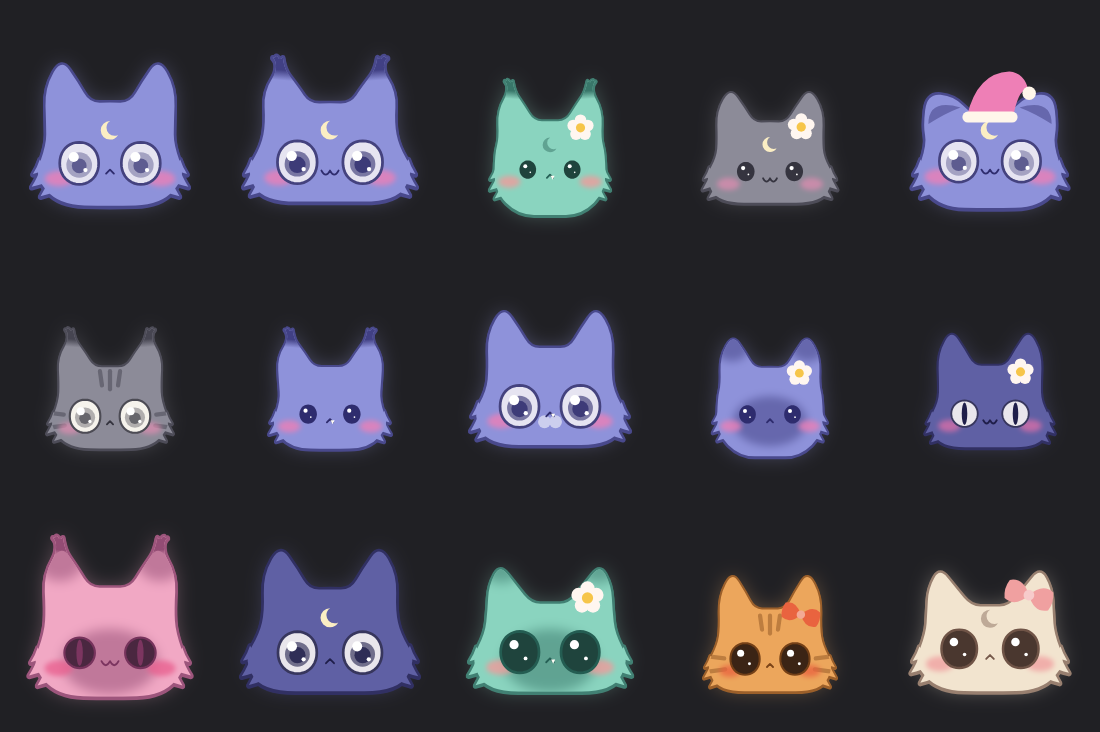
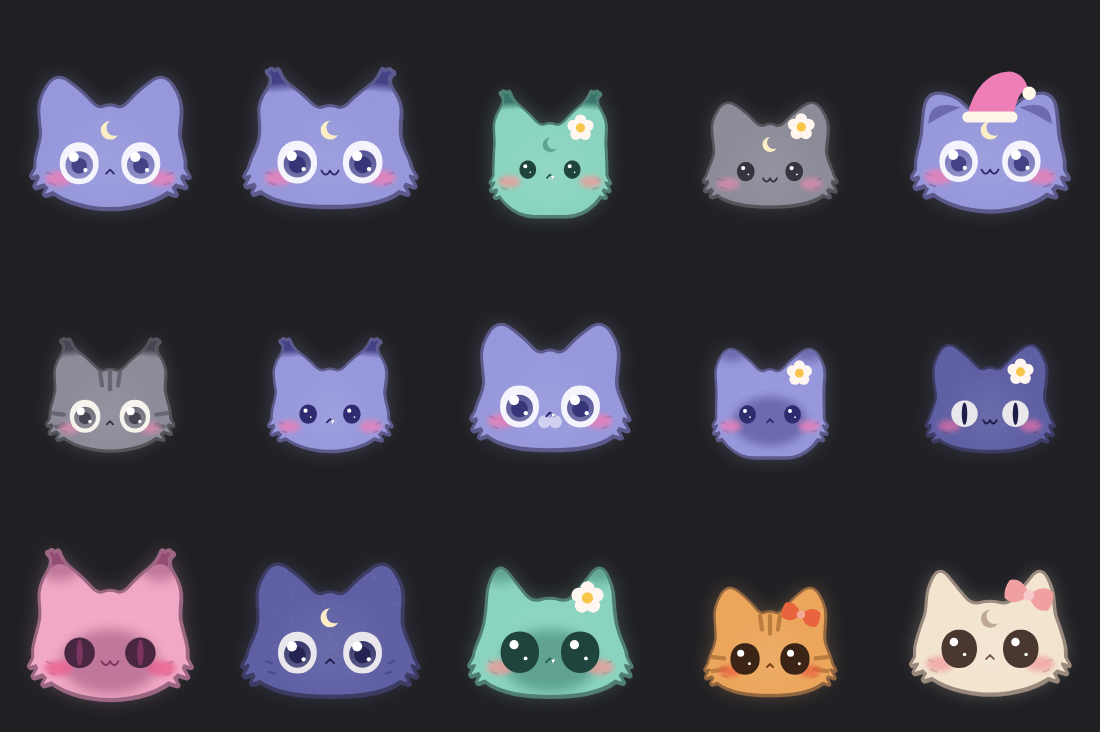
feat(cat): the bib grows from the chin, plumes rise
After the tenth review (very similar: reached): the bib's lobes rise
over the jaw and fade into the fur there, with tufts sticking out past
its sides, so it merges with the chin rather than sitting under it like
a collar; plumes bulge on the outside and rise instead of reaching
sideways; faces get a very soft glow in the middle. Lab previews and the
brand art are redrawn from the current cat.

Claude-Session: https://claude.ai/code/session_01DLiuU5ewj45KzsWwskHJGa

diff --git a/lib/design/cat/figure.dart b/lib/design/cat/figure.dart
@@ -1179,7 +1179,7 @@ extension on CatPainter {
     final width = [
       for (var i = 0; i <= n; i++)
         (bushy
-                ? (.26 + .5 * math.sin(math.pi * math.pow(i / n, 1.94))) *
+                ? (.26 + .56 * math.sin(math.pi * math.pow(i / n, 1.7))) *
                       (1 - .78 * _ease(((i / n) - .55) / .45))
                 : _along(const [.3, .5, .64, .62, .46], i / n)) *
             puff,
@@ -1191,12 +1191,15 @@ extension on CatPainter {
       for (final o in p.tail)
         kind == CatTail.bushy
             ? p.tail[0] +
-                  Offset(o.dx - p.tail[0].dx, (o.dy - p.tail[0].dy) * 1.18)
+                  Offset(
+                    (o.dx - p.tail[0].dx) * .92,
+                    (o.dy - p.tail[0].dy) * 1.28,
+                  )
             : o,
     ];
     if (kind == CatTail.curl || kind == CatTail.bushy) {
       final d = c[4] - c[3], e = c[3] - c[2];
-      final k = kind == CatTail.curl ? .9 : .5;
+      final k = kind == CatTail.curl ? .9 : .25;
       final turn = (e.dx * d.dy - e.dy * d.dx) >= 0 ? k : -k;
       c[4] =
           c[3] +
@@ -1664,7 +1667,7 @@ extension on CatPainter {
     final chin = p.head + Offset(0, b.ry * .86 / b.rx * _headScale);
     final muzzle = profile.look.mark == CatMark.muzzle;
     final w = big ? 1.36 : .82, h = big ? .8 : .42;
-    final top = chin.dy - (big ? .3 : .26);
+    final top = chin.dy - (big ? .4 : .26);
     final cx = chin.dx;
     // Upper half: a smooth arch hidden mostly under the chin; lower half:
     // five scallops.
@@ -1715,8 +1718,8 @@ extension on CatPainter {
       path,
       Paint()
         ..shader = ui.Gradient.linear(
-          Offset(cx, top - h * .1),
-          Offset(cx, top + h * .3),
+          Offset(cx, top - h * .05),
+          Offset(cx, top + h * .42),
           [inks.fur.withValues(alpha: a), inks.fur.withValues(alpha: 0)],
         ),
     );
@@ -1729,6 +1732,34 @@ extension on CatPainter {
     for (final (x, y) in const [(-.18, .66), (.18, .66)]) {
       final o = Offset(cx + x * w, top + y * h);
       c.drawLine(o, o + Offset(x * .1, .1 * h), fur);
+    }
+    // Tufts of the bib sticking out past its sides, so it merges with the
+    // fur instead of sitting on it like a collar.
+    if (big) {
+      final tuftPaint = Paint()..color = edge.withValues(alpha: a);
+      for (final side in [-1.0, 1.0]) {
+        for (final (y, len) in const [(.42, .1), (.6, .08)]) {
+          final at = Offset(cx + side * w * .47, top + h * y);
+          c.drawPath(
+            Path()
+              ..moveTo(at.dx, at.dy - .06)
+              ..quadraticBezierTo(
+                at.dx + side * len * .5,
+                at.dy - .02,
+                at.dx + side * len,
+                at.dy + .05,
+              )
+              ..quadraticBezierTo(
+                at.dx + side * len * .3,
+                at.dy + .03,
+                at.dx,
+                at.dy + .06,
+              )
+              ..close(),
+            tuftPaint,
+          );
+        }
+      }
     }
     // Inked hairs along the lower edge, where the bib meets the fur.
     final hair = Paint()

diff --git a/prototypes/mascot_lab/lib/figure.dart b/prototypes/mascot_lab/lib/figure.dart
@@ -1179,7 +1179,7 @@ extension on CatPainter {
     final width = [
       for (var i = 0; i <= n; i++)
         (bushy
-                ? (.26 + .5 * math.sin(math.pi * math.pow(i / n, 1.94))) *
+                ? (.26 + .56 * math.sin(math.pi * math.pow(i / n, 1.7))) *
                       (1 - .78 * _ease(((i / n) - .55) / .45))
                 : _along(const [.3, .5, .64, .62, .46], i / n)) *
             puff,
@@ -1191,12 +1191,15 @@ extension on CatPainter {
       for (final o in p.tail)
         kind == CatTail.bushy
             ? p.tail[0] +
-                  Offset(o.dx - p.tail[0].dx, (o.dy - p.tail[0].dy) * 1.18)
+                  Offset(
+                    (o.dx - p.tail[0].dx) * .92,
+                    (o.dy - p.tail[0].dy) * 1.28,
+                  )
             : o,
     ];
     if (kind == CatTail.curl || kind == CatTail.bushy) {
       final d = c[4] - c[3], e = c[3] - c[2];
-      final k = kind == CatTail.curl ? .9 : .5;
+      final k = kind == CatTail.curl ? .9 : .25;
       final turn = (e.dx * d.dy - e.dy * d.dx) >= 0 ? k : -k;
       c[4] =
           c[3] +
@@ -1664,7 +1667,7 @@ extension on CatPainter {
     final chin = p.head + Offset(0, b.ry * .86 / b.rx * _headScale);
     final muzzle = profile.look.mark == CatMark.muzzle;
     final w = big ? 1.36 : .82, h = big ? .8 : .42;
-    final top = chin.dy - (big ? .3 : .26);
+    final top = chin.dy - (big ? .4 : .26);
     final cx = chin.dx;
     // Upper half: a smooth arch hidden mostly under the chin; lower half:
     // five scallops.
@@ -1715,8 +1718,8 @@ extension on CatPainter {
       path,
       Paint()
         ..shader = ui.Gradient.linear(
-          Offset(cx, top - h * .1),
-          Offset(cx, top + h * .3),
+          Offset(cx, top - h * .05),
+          Offset(cx, top + h * .42),
           [inks.fur.withValues(alpha: a), inks.fur.withValues(alpha: 0)],
         ),
     );
@@ -1729,6 +1732,34 @@ extension on CatPainter {
     for (final (x, y) in const [(-.18, .66), (.18, .66)]) {
       final o = Offset(cx + x * w, top + y * h);
       c.drawLine(o, o + Offset(x * .1, .1 * h), fur);
+    }
+    // Tufts of the bib sticking out past its sides, so it merges with the
+    // fur instead of sitting on it like a collar.
+    if (big) {
+      final tuftPaint = Paint()..color = edge.withValues(alpha: a);
+      for (final side in [-1.0, 1.0]) {
+        for (final (y, len) in const [(.42, .1), (.6, .08)]) {
+          final at = Offset(cx + side * w * .47, top + h * y);
+          c.drawPath(
+            Path()
+              ..moveTo(at.dx, at.dy - .06)
+              ..quadraticBezierTo(
+                at.dx + side * len * .5,
+                at.dy - .02,
+                at.dx + side * len,
+                at.dy + .05,
+              )
+              ..quadraticBezierTo(
+                at.dx + side * len * .3,
+                at.dy + .03,
+                at.dx,
+                at.dy + .06,
+              )
+              ..close(),
+            tuftPaint,
+          );
+        }
+      }
     }
     // Inked hairs along the lower edge, where the bib meets the fur.
     final hair = Paint()

diff --git a/lib/design/cat/cat.dart b/lib/design/cat/cat.dart
@@ -813,6 +813,20 @@ class CatPainter extends CustomPainter {
     final fill = Paint()..color = head;
     canvas.drawPath(shape, fill);
     canvas.drawPath(fur, fill);
+    // A very soft glow in the middle of the face, as a painted head has.
+    canvas.save();
+    canvas.clipPath(outline);
+    canvas.drawCircle(
+      Offset(b.cx, b.cy + b.ry * .1),
+      b.rx * .9,
+      Paint()
+        ..shader =
+            ui.Gradient.radial(Offset(b.cx, b.cy + b.ry * .1), b.rx * .9, [
+              Color.lerp(head, Colors.white, .07)!,
+              Color.lerp(head, Colors.white, .07)!.withValues(alpha: 0),
+            ]),
+    );
+    canvas.restore();
     // The same faint grain as the body's.
     canvas.save();
     canvas.clipPath(outline);

diff --git a/prototypes/mascot_lab/lib/cat.dart b/prototypes/mascot_lab/lib/cat.dart
@@ -813,6 +813,20 @@ class CatPainter extends CustomPainter {
     final fill = Paint()..color = head;
     canvas.drawPath(shape, fill);
     canvas.drawPath(fur, fill);
+    // A very soft glow in the middle of the face, as a painted head has.
+    canvas.save();
+    canvas.clipPath(outline);
+    canvas.drawCircle(
+      Offset(b.cx, b.cy + b.ry * .1),
+      b.rx * .9,
+      Paint()
+        ..shader =
+            ui.Gradient.radial(Offset(b.cx, b.cy + b.ry * .1), b.rx * .9, [
+              Color.lerp(head, Colors.white, .07)!,
+              Color.lerp(head, Colors.white, .07)!.withValues(alpha: 0),
+            ]),
+    );
+    canvas.restore();
     // The same faint grain as the body's.
     canvas.save();
     canvas.clipPath(outline);
